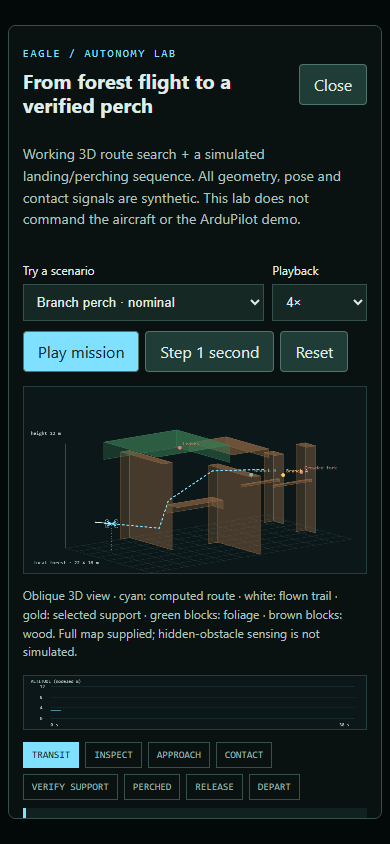
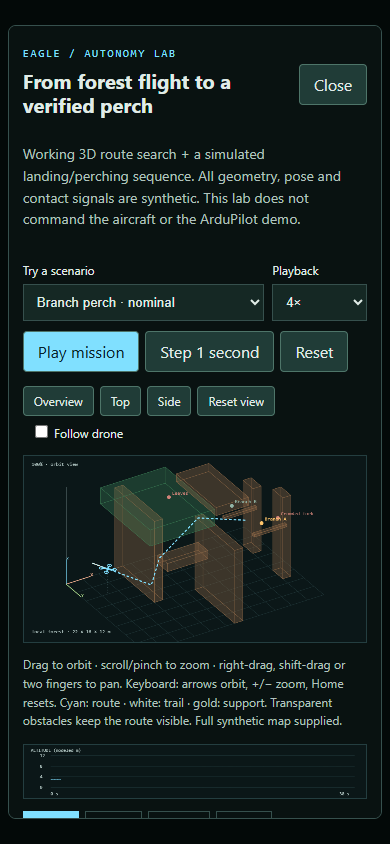
Simulator: make forest camera orbitable

Changed region(s): [[0.0615, 0.4313, 0.8923, 0.9858], [0.8615, 0.9242, 0.8923, 0.955]]

diff --git a/simulator/forest-panel.js b/simulator/forest-panel.js
@@ -15,8 +15,9 @@
           <option value="blocked">Blocked canopy · no route</option><option value="sensor-loss">Lose pose / depth · abort</option>
         </select></label><label>Playback<select id="forest-speed"><option value="1">1×</option><option value="4" selected>4×</option><option value="8">8×</option></select></label></div>
         <div class="seg"><button id="forest-play">Play mission</button><button id="forest-step">Step 1 second</button><button id="forest-reset">Reset</button></div>
-        <canvas id="forest-map" width="900" height="490" aria-label="Oblique 3D synthetic forest map with planned route, obstacles, candidates and drone"></canvas>
-        <p class="hint">Oblique 3D view · cyan: computed route · white: flown trail · gold: selected support · green blocks: foliage · brown blocks: wood. Full map supplied; hidden-obstacle sensing is not simulated.</p>
+        <div class="forest-view-controls" aria-label="Camera controls"><button id="forest-view-orbit">Overview</button><button id="forest-view-top">Top</button><button id="forest-view-side">Side</button><button id="forest-view-reset">Reset view</button><label><input id="forest-follow" type="checkbox"> Follow drone</label></div>
+        <canvas id="forest-map" width="900" height="490" tabindex="0" aria-label="Interactive 3D forest. Drag to orbit; scroll to zoom; right-drag or shift-drag to pan. Arrow keys orbit; plus and minus zoom; Home resets."></canvas>
+        <p class="hint">Drag to orbit · scroll/pinch to zoom · right-drag, shift-drag or two fingers to pan. Keyboard: arrows orbit, +/− zoom, Home resets. Cyan: route · white: trail · gold: support. Transparent obstacles keep the route visible. Full synthetic map supplied.</p>
         <canvas id="forest-profile" width="900" height="140" aria-label="Flight altitude over elapsed simulated time"></canvas>
         <div id="forest-stages" aria-label="Mission stages"></div>
       </div><aside>
@@ -33,27 +34,44 @@
   let s=F.create(),playing=false,last=null,history=[[0,3]],renderAt=0;
   const descriptions={TRANSIT:'Following a route computed around inflated 3D obstacles.',INSPECT:'Rechecking the modeled support and its clear approach.',APPROACH:'Tracking the selected support at a slower modeled speed.',CONTACT:'Contact is injected by the model; no real sensor is connected.',VERIFY_SUPPORT:'Waiting for a synthetic support-confirmed signal before motor shutdown.',PERCHED:'Synthetic attachment confirmed. Motors modeled off for four seconds.',LANDED:'Synthetic ground support confirmed. Motors modeled off for four seconds.',RELEASE:'Motors modeled on; attachment released.',DEPART:'Retracing the checked approach corridor to clear the support.',RECOVER:'Grip failed. Motors stay on while retreating to the inspection point.',COMPLETE:'Departure completed. Replay or choose a failure scenario.',ABORTED:'Mission cannot continue. This animation stops; aircraft emergency dynamics are not simulated.'};
   const stages=['TRANSIT','INSPECT','APPROACH','CONTACT','VERIFY_SUPPORT','PERCHED','RELEASE','DEPART'];
-  function project(p){return [110+p[0]*24+p[1]*14,425+p[1]*4-p[0]*4-p[2]*23];}
+  const initialView={yaw:0.55,pitch:0.55,zoom:1,panX:0,panY:0};
+  let view={...initialView};
+  const clamp=(v,a,b)=>Math.max(a,Math.min(b,v));
+  function cameraPoint(p){
+    const target=el('follow').checked?s.p:[11,8,5],x=p[0]-target[0],y=p[1]-target[1],z=p[2]-target[2];
+    const c=Math.cos(view.yaw),a=Math.sin(view.yaw),d=-x*a+y*c;
+    return [x*c+y*a,d*Math.sin(view.pitch)-z*Math.cos(view.pitch),-d*Math.cos(view.pitch)+z*Math.sin(view.pitch)];
+  }
+  function project(p){const q=cameraPoint(p),scale=25*view.zoom;return [450+view.panX+q[0]*scale,245+view.panY+q[1]*scale];}
   function poly(points,fill,stroke){ctx.beginPath();points.forEach((p,i)=>{const q=project(p);i?ctx.lineTo(...q):ctx.moveTo(...q);});ctx.closePath();ctx.fillStyle=fill;ctx.fill();ctx.strokeStyle=stroke;ctx.stroke();}
   function line(points,color,width=2,dash=[]){ctx.strokeStyle=color;ctx.lineWidth=width;ctx.setLineDash(dash);ctx.beginPath();points.forEach((p,i)=>{const q=project(p);i?ctx.lineTo(...q):ctx.moveTo(...q);});ctx.stroke();ctx.setLineDash([]);ctx.lineWidth=1;}
   function draw(){
     ctx.fillStyle='#0b1718';ctx.fillRect(0,0,900,490);ctx.font='13px monospace';
     for(let x=0;x<=22;x+=2)line([[x,0,0],[x,16,0]],'#203638',1);
     for(let y=0;y<=16;y+=2)line([[0,y,0],[22,y,0]],'#203638',1);
-    line([[0,0,0],[0,0,12]],'#91a7a5',1);ctx.fillStyle='#b6cbc7';ctx.fillText('height 12 m',18,126);ctx.fillText('local forest · 22 × 16 m',25,467);
+    line([[0,0,0],[0,0,12]],'#91a7a5',1);ctx.fillStyle='#b6cbc7';ctx.fillText('local forest · 22 × 16 × 12 m',20,467);
+    // Sort every box face by camera depth so orbiting exposes all sides.
+    const faces=[];
     for(const o of s.world.obstacles){
       const [x,y,z]=o.min,[X,Y,Z]=o.max,fol=o.kind==='foliage',c=fol?'#387751':'#876343';
-      poly([[x,y,z],[X,y,z],[X,y,Z],[x,y,Z]],c+'55',c);
-      poly([[X,y,z],[X,Y,z],[X,Y,Z],[X,y,Z]],c+'77',c);
-      poly([[x,y,Z],[X,y,Z],[X,Y,Z],[x,Y,Z]],c+'99',c);
+      const polygons=[[[x,y,z],[X,y,z],[X,y,Z],[x,y,Z]],[[x,Y,z],[X,Y,z],[X,Y,Z],[x,Y,Z]],[[x,y,z],[x,Y,z],[x,Y,Z],[x,y,Z]],[[X,y,z],[X,Y,z],[X,Y,Z],[X,y,Z]],[[x,y,Z],[X,y,Z],[X,Y,Z],[x,Y,Z]],[[x,y,z],[X,y,z],[X,Y,z],[x,Y,z]]];
+      for(const points of polygons)faces.push({points,c,depth:points.reduce((a,p)=>a+cameraPoint(p)[2],0)/4});
     }
+    faces.sort((a,b)=>a.depth-b.depth).forEach(f=>poly(f.points,f.c+'38',f.c+'b0'));
     line(s.path,'#80e0ff',3,[7,5]);line(s.trail,'#f1f5e8',2);
     for(const c of s.world.candidates){
       const [x,y]=project(c.p);ctx.fillStyle=c===s.target?'#ffc66b':c.reason||s.failed.includes(c.id)?'#d08278':'#91b4a5';ctx.beginPath();ctx.arc(x,y,5,0,Math.PI*2);ctx.fill();ctx.fillText(c.id,x+8,y-7);
     }
     const [x,y]=project(s.p);line([[s.p[0],s.p[1],0],s.p],'#a6d6dd',1,[2,5]);
-    ctx.strokeStyle=s.motors?'#80e0ff':'#ffc66b';ctx.lineWidth=3;ctx.beginPath();ctx.moveTo(x-12,y-6);ctx.lineTo(x+12,y+6);ctx.moveTo(x-12,y+6);ctx.lineTo(x+12,y-6);ctx.stroke();ctx.lineWidth=1;
-    for(const dx of [-12,12])for(const dy of [-6,6]){ctx.beginPath();ctx.arc(x+dx,y+dy,5,0,Math.PI*2);ctx.stroke();}
+    const droneColor=s.motors?'#80e0ff':'#ffc66b',at=(dx,dy)=>[s.p[0]+dx,s.p[1]+dy,s.p[2]];
+    line([at(-0.5,-0.5),at(0.5,0.5)],droneColor,3);line([at(-0.5,0.5),at(0.5,-0.5)],droneColor,3);
+    for(const dx of [-0.5,0.5])for(const dy of [-0.5,0.5]){
+      const ring=Array.from({length:25},(_,i)=>at(dx+0.22*Math.cos(i*Math.PI/12),dy+0.22*Math.sin(i*Math.PI/12)));line(ring,droneColor,2);
+    }
+    // Solid center marker stays legible from a low side view.
+    ctx.fillStyle=droneColor;ctx.beginPath();ctx.arc(x,y,4,0,Math.PI*2);ctx.fill();
+    for(const [p,label,color] of [[[3,0,0],'X','#efac8c'],[[0,3,0],'Y','#a9d688'],[[0,0,3],'Z','#80e0ff']]){line([[0,0,0],p],color,2);const q=project(p);ctx.fillStyle=color;ctx.fillText(label,...q);}
+    ctx.fillStyle='#b6cbc7';ctx.fillText(`${Math.round(view.zoom*100)}% · ${el('follow').checked?'following drone':'orbit view'}`,20,26);
     profile.fillStyle='#0b1718';profile.fillRect(0,0,900,140);profile.font='12px monospace';profile.fillStyle='#b6cbc7';profile.fillText('ALTITUDE (modeled m)',18,18);
     const maxT=Math.max(30,s.t),px=t=>70+t/maxT*800,py=z=>112-z*7;
     for(const z of [0,4,8,12]){profile.strokeStyle='#243e40';profile.beginPath();profile.moveTo(70,py(z));profile.lineTo(870,py(z));profile.stroke();profile.fillText(z+'',42,py(z)+4);}
@@ -74,8 +92,34 @@
   el('dialog').addEventListener('close',()=>{playing=false;last=null;});
   el('scenario').onchange=reset;el('reset').onclick=reset;el('step').onclick=()=>{playing=false;advance(1);draw();};
   el('play').onclick=()=>{if(s.done)reset();playing=!playing;last=null;draw();};
+  const canvas=el('map'),pointers=new Map();let gesture=null;
+  const point=e=>{const r=canvas.getBoundingClientRect();return {x:(e.clientX-r.left)*900/r.width,y:(e.clientY-r.top)*490/r.height};};
+  const gestureState=()=>{const points=[...pointers.values()];if(points.length<2)return null;return {x:(points[0].x+points[1].x)/2,y:(points[0].y+points[1].y)/2,d:Math.hypot(points[0].x-points[1].x,points[0].y-points[1].y)};};
+  canvas.addEventListener('pointerdown',e=>{canvas.focus({preventScroll:true});canvas.setPointerCapture(e.pointerId);pointers.set(e.pointerId,point(e));gesture=gestureState();canvas.classList.add('dragging');e.preventDefault();});
+  canvas.addEventListener('pointermove',e=>{
+    if(!pointers.has(e.pointerId))return;const old=pointers.get(e.pointerId),p=point(e);pointers.set(e.pointerId,p);
+    if(pointers.size>=2){const next=gestureState();if(gesture&&gesture.d>0){view.zoom=clamp(view.zoom*next.d/gesture.d,0.35,4);view.panX+=next.x-gesture.x;view.panY+=next.y-gesture.y;}gesture=next;}
+    else if(e.shiftKey||(e.buttons&6)){view.panX+=p.x-old.x;view.panY+=p.y-old.y;}
+    else{view.yaw+=(p.x-old.x)*0.006;view.pitch=clamp(view.pitch+(p.y-old.y)*0.006,0.02,Math.PI/2-0.01);}
+    draw();e.preventDefault();
+  });
+  const release=e=>{pointers.delete(e.pointerId);gesture=gestureState();if(!pointers.size)canvas.classList.remove('dragging');};
+  canvas.addEventListener('pointerup',release);canvas.addEventListener('pointercancel',release);canvas.addEventListener('lostpointercapture',release);
+  canvas.addEventListener('contextmenu',e=>e.preventDefault());
+  canvas.addEventListener('wheel',e=>{view.zoom=clamp(view.zoom*Math.exp(-e.deltaY*0.001),0.35,4);draw();e.preventDefault();},{passive:false});
+  function resetView(){view={...initialView};el('follow').checked=false;draw();}
+  el('view-reset').onclick=resetView;el('view-orbit').onclick=resetView;
+  el('view-top').onclick=()=>{view={...initialView,yaw:0,pitch:Math.PI/2-0.01};el('follow').checked=false;draw();};
+  el('view-side').onclick=()=>{view={...initialView,yaw:0,pitch:0.02};el('follow').checked=false;draw();};
+  el('follow').onchange=()=>{view.panX=0;view.panY=0;draw();};
+  canvas.addEventListener('keydown',e=>{
+    const moves={ArrowLeft:[-0.12,0],ArrowRight:[0.12,0],ArrowUp:[0,-0.1],ArrowDown:[0,0.1]};
+    if(moves[e.key]){view.yaw+=moves[e.key][0];view.pitch=clamp(view.pitch+moves[e.key][1],0.02,Math.PI/2-0.01);}
+    else if(['+','=','-','_'].includes(e.key))view.zoom=clamp(view.zoom*(e.key==='-'||e.key==='_'?0.9:1.1),0.35,4);
+    else if(e.key==='Home')resetView();else return;draw();e.preventDefault();
+  });
   let carry=0;
   function frame(t){if(playing&&last!==null&&el('dialog').open){carry+=Math.min((t-last)/1000,0.1)*Number(el('speed').value);while(carry>=0.05&&!s.done){advance(0.05);carry-=0.05;}}else carry=0;last=t;if(t-renderAt>120&&el('dialog').open){draw();renderAt=t;}requestAnimationFrame(frame);}
-  window.__forestDemo={get state(){return s;},advance,reset};draw();requestAnimationFrame(frame);
+  window.__forestDemo={get state(){return s;},get camera(){return {...view,follow:el('follow').checked};},advance,reset};draw();requestAnimationFrame(frame);
   if(document.body.dataset.forestStandalone==='true')el('dialog').showModal();
 })();

diff --git a/simulator/forest-panel.css b/simulator/forest-panel.css
@@ -14,6 +14,8 @@
 #forest-dialog button,#forest-open{padding:9px 14px;background:#203c37;color:#e0ece7;border:1px solid #4e7569;border-radius:4px;cursor:pointer;font:inherit}
 #forest-play{background:#80e0ff!important;color:#08212a!important}
 #forest-dialog canvas{display:block;width:100%;height:auto;border:1px solid #243e40;box-sizing:border-box;margin-top:14px}
+#forest-map{touch-action:none;cursor:grab}#forest-map.dragging{cursor:grabbing}#forest-map:focus-visible{outline:2px solid #80e0ff;outline-offset:3px}
+.forest-view-controls{display:flex;gap:6px;flex-wrap:wrap;align-items:center;margin-top:14px}.forest-view-controls button{font-size:12px!important;padding:6px 10px!important}.forest-view-controls label{font-size:12px;margin-left:8px}
 #forest-dialog aside{font-size:12px;min-width:0}#forest-dialog a{color:#80e0ff}
 #forest-status{border-left:3px solid #80e0ff;padding:1px 14px 10px;background:#10211f}
 .forest-data{white-space:pre-line;font:12px/1.8 monospace}

diff --git a/docs/forest-navigation.md b/docs/forest-navigation.md
@@ -2,6 +2,12 @@
 
 Open [the forest lab](../simulator/forest.html) directly, or open the Jungle Simulator and choose **Forest navigation & perching → Open forest lab** below the GPS-denied navigation panel. Use **Play mission**, **Step 1 second**, scenario selection and 1×/4×/8× playback. Reset restarts the selected scenario. Closing the lab pauses playback.
 
+### Move around the 3D scene
+
+Drag the forest view to orbit around it, scroll to zoom, and right-drag or shift-drag to pan. Touch controls support one-finger orbit and two-finger pinch/pan. **Overview**, **Top** and **Side** choose camera presets; **Reset view** restores the overview. **Follow drone** centers the moving aircraft while retaining orbit and zoom controls. These camera controls work during playback and while paused and do not modify the mission state. Keyboard users can focus the canvas, use arrow keys to orbit, +/− to zoom and Home to reset.
+
+The renderer uses a rotatable orthographic 3D camera with bounded elevation and zoom, not a fixed oblique projection. All six faces of each obstacle are sorted by camera depth. Obstacles are transparent and route/trail/drone overlays remain visible through them for explanation; visibility through a drawn obstacle does not imply collision clearance. Drone arms and rotor rings are world-space geometry. Axis markers rotate with the scene. Camera state remains separate from the planner and is retained across mission resets.
+
 For local HTTP access, run `python -m http.server 8770 --bind 127.0.0.1` from the repository root, then visit `http://127.0.0.1:8770/simulator/forest.html`.
 
 ![Forest lab showing a verified synthetic perch](images/forest-navigation.png)
@@ -46,4 +52,4 @@ These repositories are references, not bundled dependencies. EGO-Swarm is GPL-3.
 
 `node simulator/test-forest.cjs` exercises all six scenarios, verifies termination, continuous segment clearance, motor shutdown only after synthetic support confirmation, failed-grip exclusion and reselection, departure, and a blocked-route result. Nominal model durations at 0.05 s steps: branch 27.3 s, moving-branch alternate 26.6 s, grip-failure retry 41.2 s, clearing landing 29.7 s. These are modeled timings, not measured flight results.
 
-`node simulator/check-forest.cjs` checks browser playback, stepping, scenarios, reset, modal opening/closing, insertion into the existing simulator and mobile overflow, and saves desktop/mobile screenshots. Continuous main-scene Three.js animation is suppressed for the integration check; no rendering-performance claim is made. Existing navigation and sensing regression checks also pass. No hardware or SITL test is claimed for the new forest model.
+`node simulator/check-forest.cjs` checks browser playback, stepping, scenarios, reset, modal opening/closing, insertion into the existing simulator and mobile overflow, and saves desktop/mobile screenshots. Camera checks exercise drag orbit with a changed rendered image, wheel zoom, shift-pan, top/side/reset presets, follow selection, keyboard orbit/reset, and browser-generated touch pinch/pan. Dragging while paused is checked not to advance mission time. Continuous main-scene Three.js animation is suppressed for the integration check; no rendering-performance claim is made. Existing navigation and sensing regression checks also pass. No hardware or SITL test is claimed for the new forest model.

diff --git a/docs/build-log.md b/docs/build-log.md
@@ -1,5 +1,11 @@
 # Build log
 
+## 2026-11-07 · Orbitable forest camera
+
+Replaced the forest lab's fixed oblique projection with an interactive orthographic 3D camera. Mouse/touch orbit, wheel/pinch zoom, right/shift-drag and two-finger pan, top/side/overview presets, reset and drone-follow controls allow inspection of the same mission from different viewpoints. All obstacle faces use camera-depth sorting; the drone's arms and rotor rings now project from world geometry. Transparent obstacles and always-visible route overlays retain explanatory visibility. Camera input is independent of mission state and works while paused or playing.
+
+Validation: browser tests passed for changed image pixels after orbit, no time advance while dragging, zoom, pan, camera presets, follow selection, keyboard navigation and actual Chromium touch pinch/pan. Existing six forest scenarios and main-simulator/mobile integration checks passed without JavaScript errors. Refreshed desktop/mobile screenshots. Planning, synthetic contact assumptions and the separate SITL boundary are unchanged. See forest-navigation.md for interaction details and rendering limitations.
+
 ## 2026-11-07 · Forest navigation, landing and perching lab
 
 Extended the existing navigation area with a focused forest lab and standalone entry page. Six-connected 3D A* plus exact inflated-box segment tests compute clearance-checked routes. A kinematic state machine separates inspection, approach, contact, support verification, perch/ground landing, release and departure. Six selectable scenarios cover nominal branch, moving-branch rejection, grip-failure retreat/reselection, clearing landing, blocked canopy and pose/depth loss. Readiness notes distinguish code running here, the separate ArduPilot service and candidate open-source/hardware integrations.
